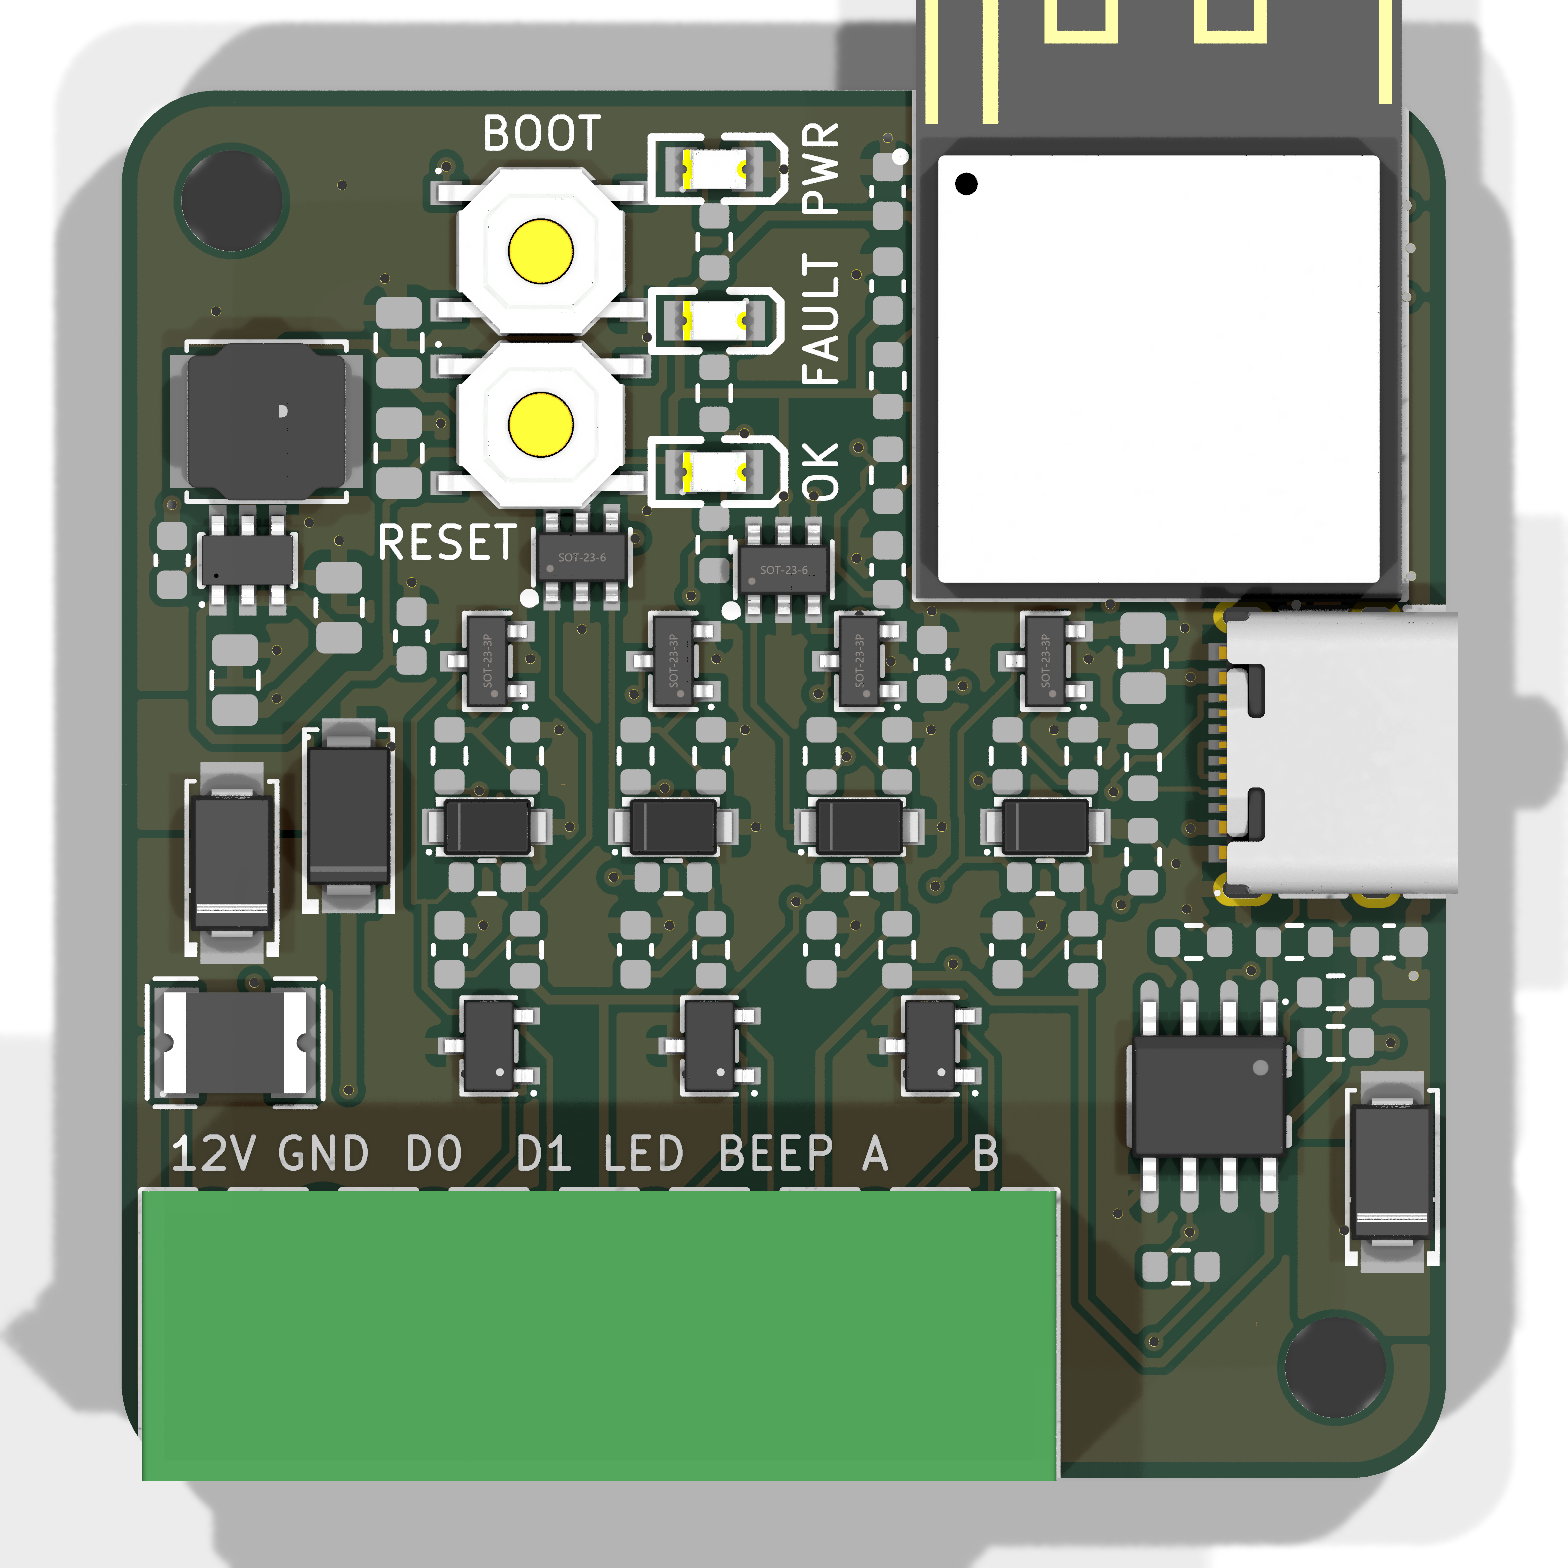
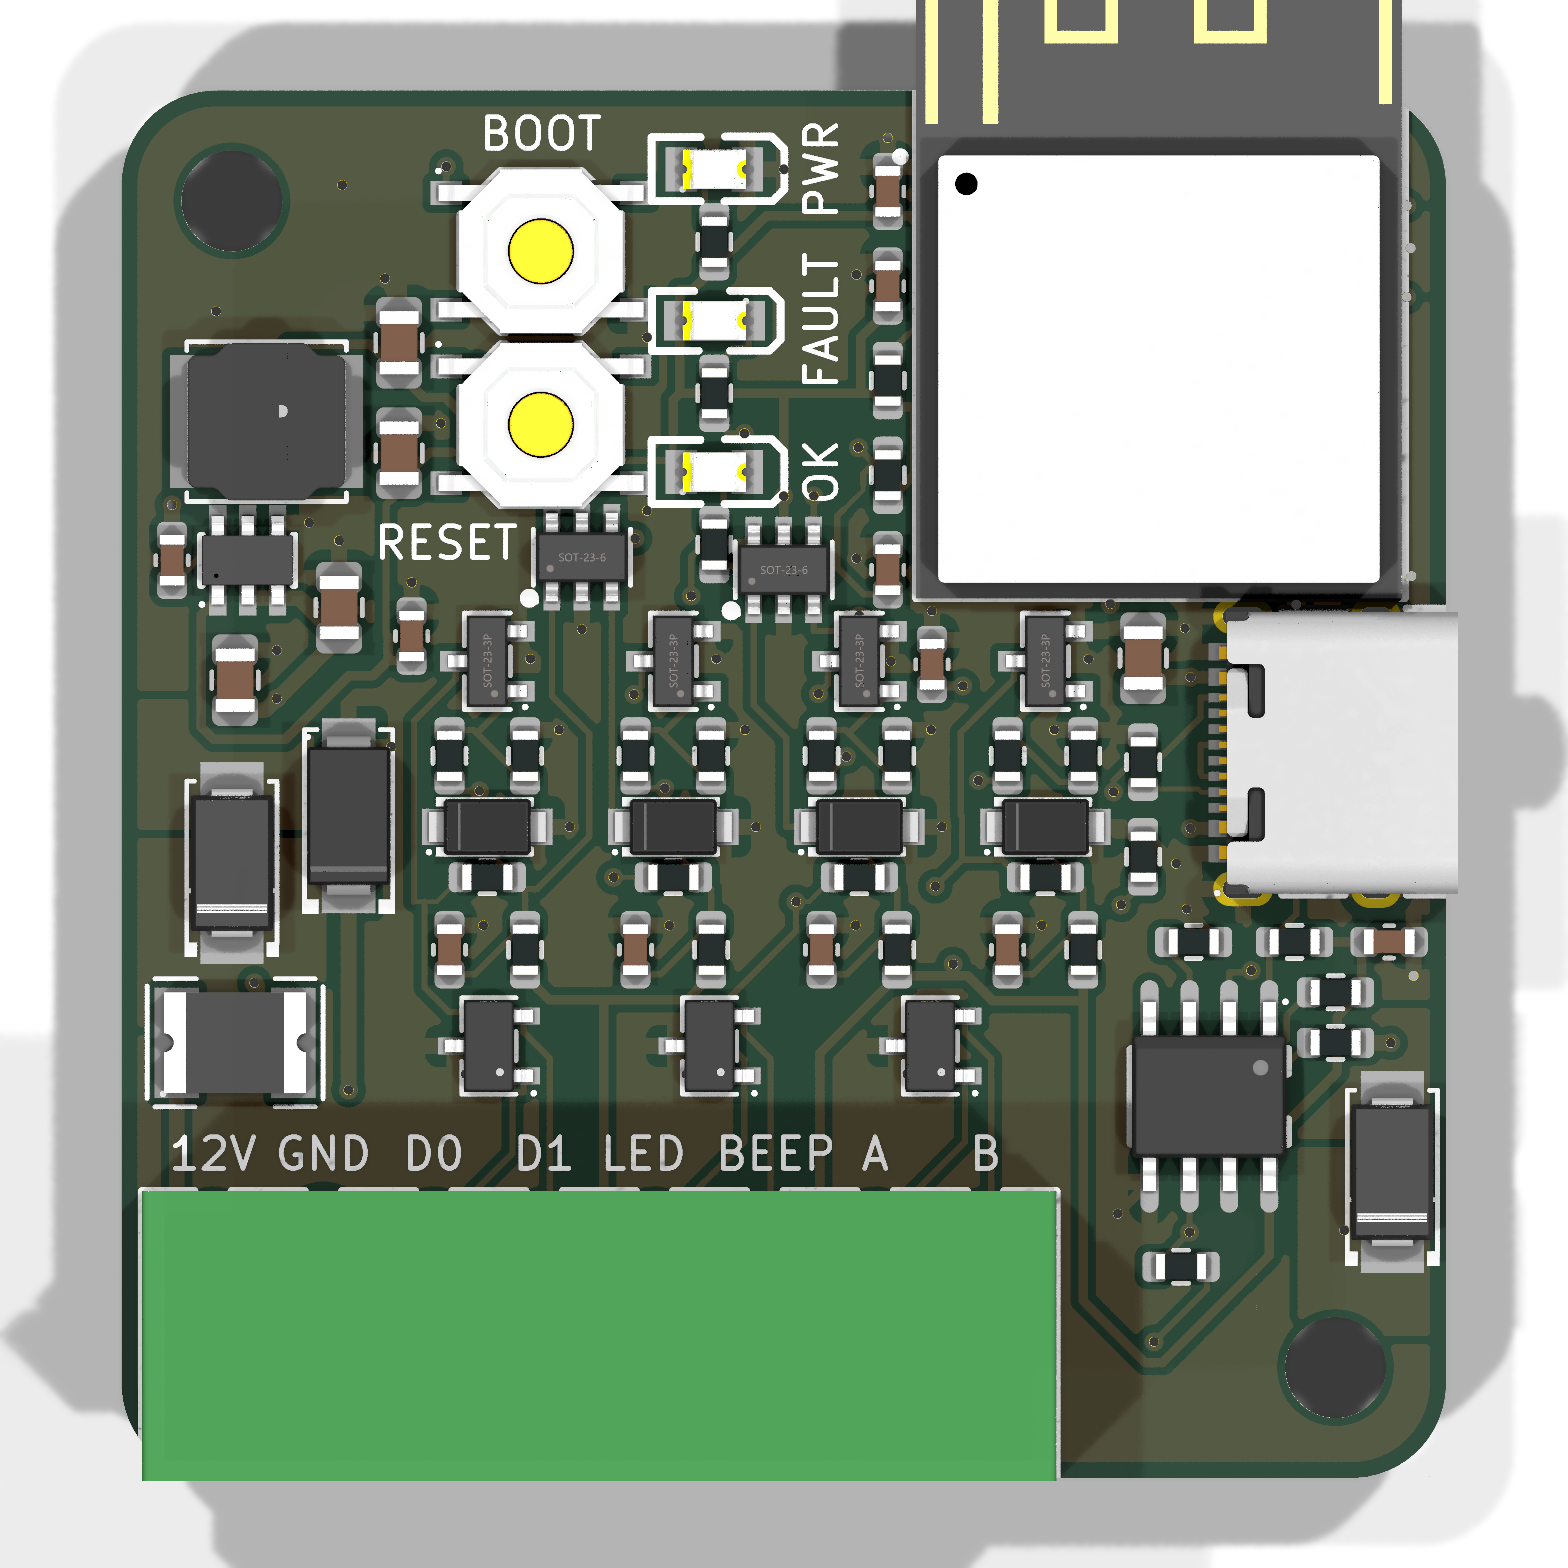
Renders: passives shown (KiCad stock 0603/0805 models); README notes where fab.py looks for them

diff --git a/hardware/fab.py b/hardware/fab.py
@@ -18,6 +18,10 @@ import time
 # and zip entries with local wall time.
 os.environ["TZ"] = "UTC"
 time.tzset()
+# KiCad's stock 0603/0805 footprints point their 3D models at KICAD9_3DMODEL_DIR (the 6 GB
+# kicad-packages3d, not installed here). The three files they need are fetched into this directory
+# from gitlab.com/kicad/libraries/kicad-packages3D; without them the passives render as bare pads.
+os.environ.setdefault("KICAD9_3DMODEL_DIR", os.path.expanduser("~/.local/share/kicad/9.0/3dmodels"))
 from collections import defaultdict
 
 import pcbnew

diff --git a/hardware/lite/fab.py b/hardware/lite/fab.py
@@ -18,6 +18,10 @@ import time
 # and zip entries with local wall time.
 os.environ["TZ"] = "UTC"
 time.tzset()
+# KiCad's stock 0603/0805 footprints point their 3D models at KICAD9_3DMODEL_DIR (the 6 GB
+# kicad-packages3d, not installed here). The three files they need are fetched into this directory
+# from gitlab.com/kicad/libraries/kicad-packages3D; without them the passives render as bare pads.
+os.environ.setdefault("KICAD9_3DMODEL_DIR", os.path.expanduser("~/.local/share/kicad/9.0/3dmodels"))
 from collections import defaultdict
 
 import pcbnew

diff --git a/README.md b/README.md
@@ -87,7 +87,10 @@ Tools used: KiCad 9.0, Freerouting 2.4.1 (OpenJDK), `easyeda2kicad` 1.0.1 (for `
 
 **3D models are not included** (about 60 MB). The renders in `fab/` show the board with them. To
 fetch them, run `easyeda2kicad --3d --lcsc_id=<part> --output hardware/lib/wb` for the LCSC part
-numbers in the BOM.
+numbers in the BOM. The 0603/0805 passives use KiCad's stock footprints, whose models come from
+`kicad-packages3d`; `fab.py` looks for them in `~/.local/share/kicad/9.0/3dmodels` (three files:
+`Resistor_SMD.3dshapes/R_0603_1608Metric`, `Capacitor_SMD.3dshapes/C_0603_1608Metric` and
+`C_0805_2012Metric`, `.step` + `.wrl`, from gitlab.com/kicad/libraries/kicad-packages3D).
 
 ## Ordering
 
